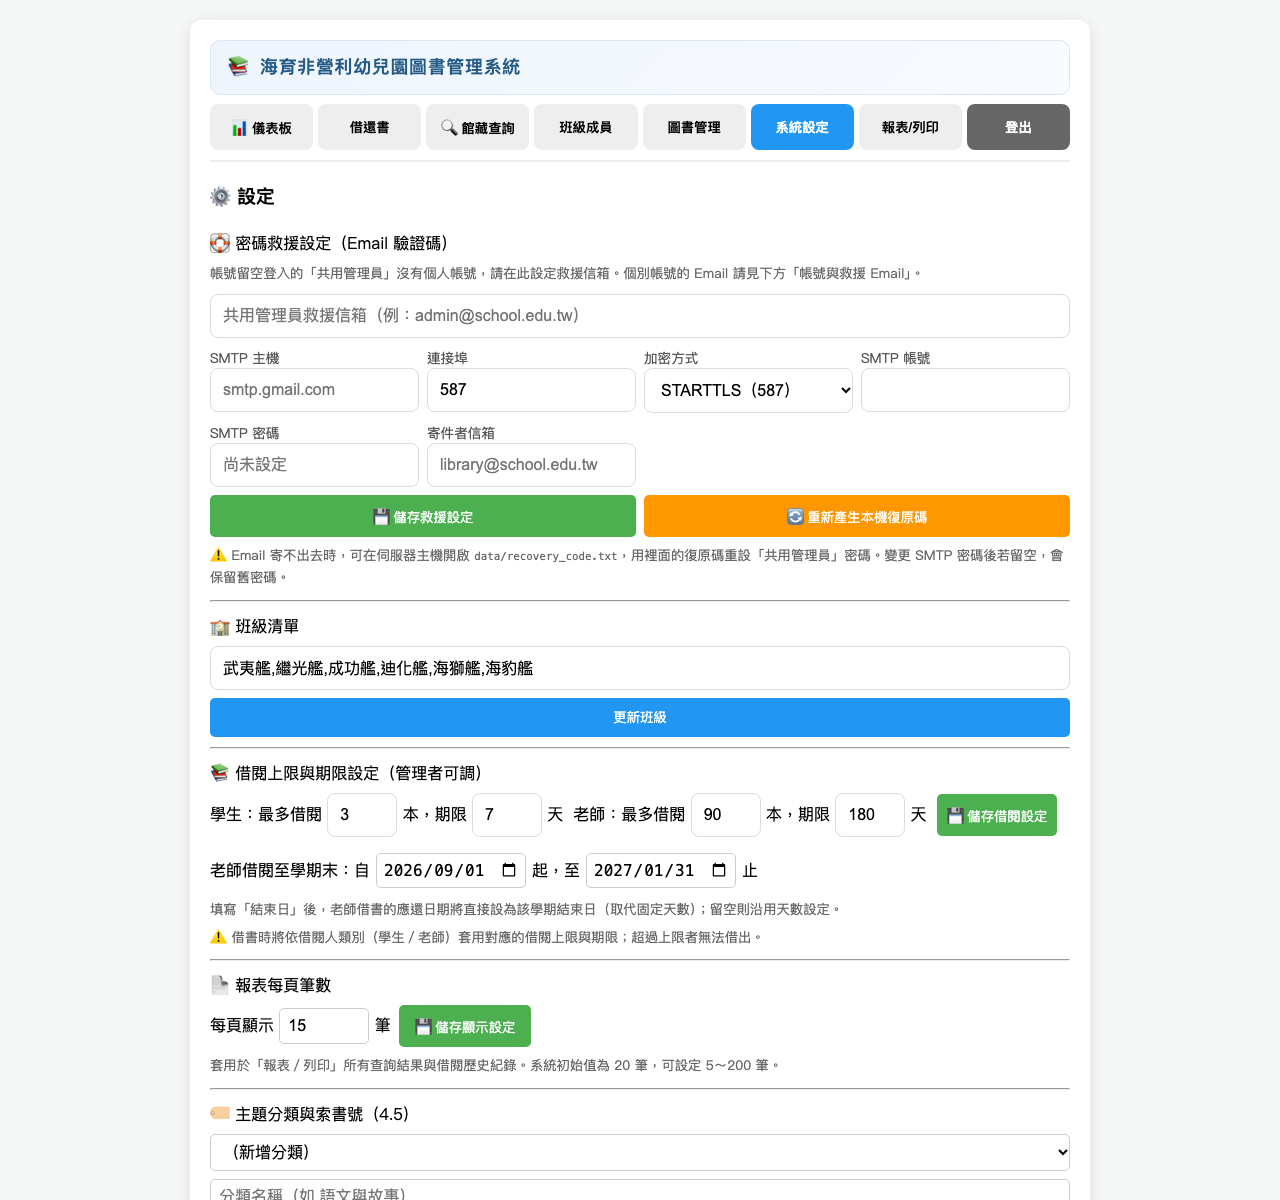
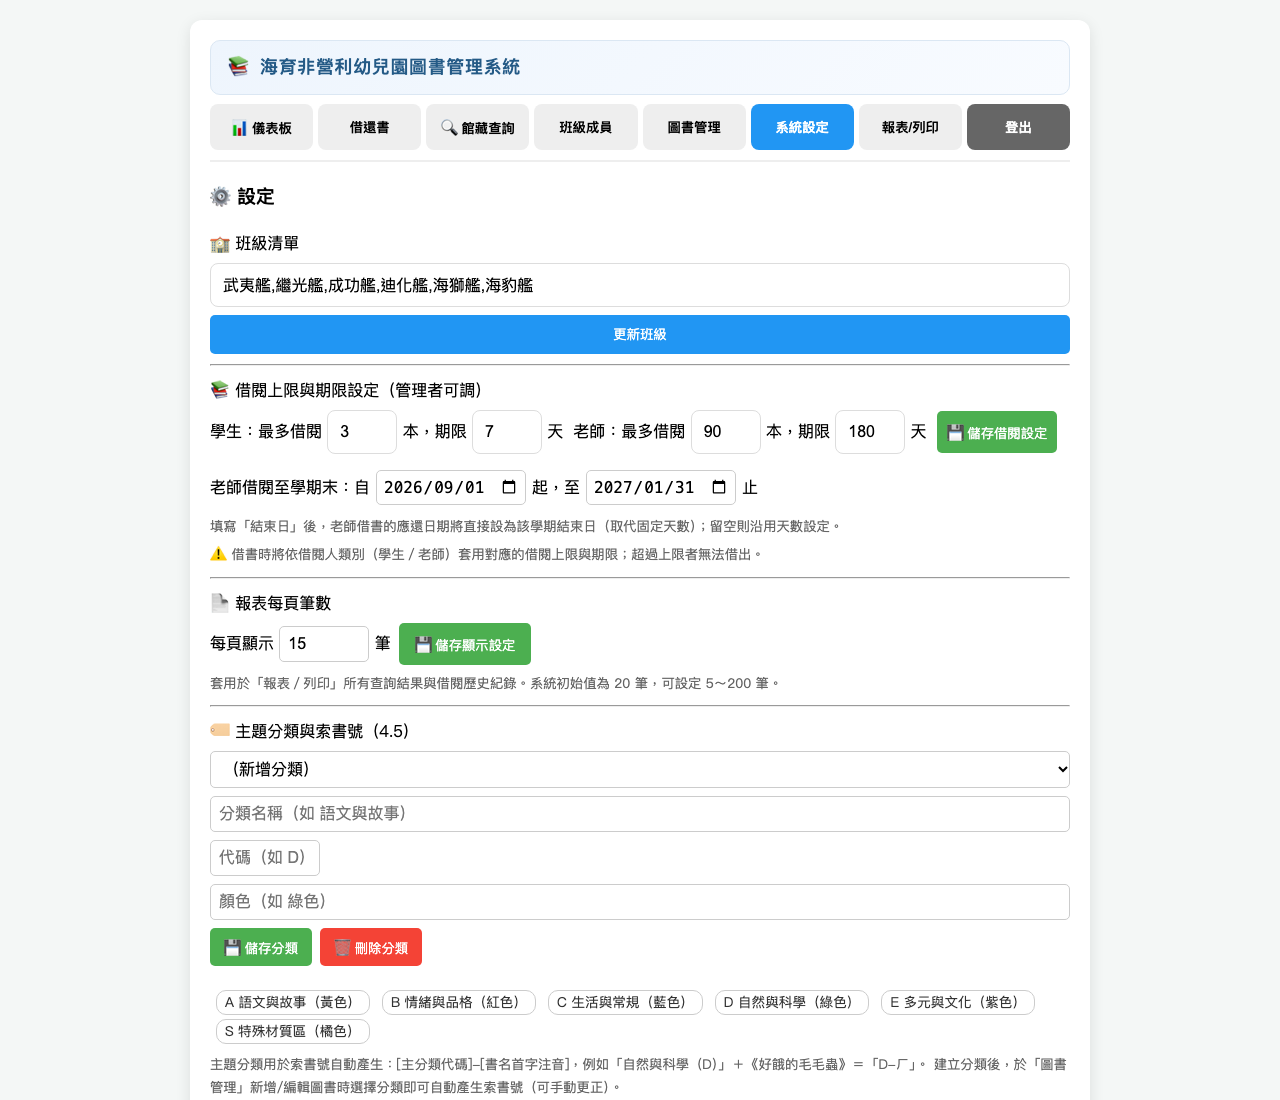
style: 密碼救援設定移至稽核紀錄前

diff --git a/index.html b/index.html
@@ -434,33 +434,6 @@
     <div id="configPage" class="page">
         <h3>⚙ 設定</h3>
         <div class="input-group">
-            <label>🛟 密碼救援設定（Email 驗證碼）</label>
-            <small style="color:#666; line-height:1.7;">帳號留空登入的「共用管理員」沒有個人帳號，請在此設定救援信箱。個別帳號的 Email 請見下方「帳號與救援 Email」。</small>
-            <input type="email" id="adminRecoveryEmail" placeholder="共用管理員救援信箱（例：admin@school.edu.tw）" autocomplete="off">
-            <div class="settings-grid">
-                <div><label>SMTP 主機</label><input type="text" id="smtpHost" placeholder="smtp.gmail.com" autocomplete="off"></div>
-                <div><label>連接埠</label><input type="number" id="smtpPort" value="587" min="1" max="65535"></div>
-                <div><label>加密方式</label>
-                    <select id="smtpSecurity">
-                        <option value="starttls">STARTTLS（587）</option>
-                        <option value="ssl">SSL（465）</option>
-                        <option value="none">不加密（僅內網）</option>
-                    </select>
-                </div>
-                <div><label>SMTP 帳號</label><input type="text" id="smtpUsername" autocomplete="off"></div>
-                <div><label>SMTP 密碼</label><input type="password" id="smtpPassword" placeholder="留空＝不變更" autocomplete="new-password"></div>
-                <div><label>寄件者信箱</label><input type="email" id="smtpFrom" placeholder="library@school.edu.tw" autocomplete="off"></div>
-            </div>
-            <div style="display:flex; gap:8px; flex-wrap:wrap;">
-                <button onclick="saveRecoverySettings()" style="flex:1; min-width:150px; background:var(--primary); color:white; padding:10px; border:none; border-radius:5px;">💾 儲存救援設定</button>
-                <button onclick="regenerateRecoveryCode()" style="flex:1; min-width:150px; background:var(--warning); color:white; padding:10px; border:none; border-radius:5px;">🔄 重新產生本機復原碼</button>
-            </div>
-            <small style="color:#666; line-height:1.7;">
-                ⚠ Email 寄不出去時，可在伺服器主機開啟 <code>data/recovery_code.txt</code>，用裡面的復原碼重設「共用管理員」密碼。變更 SMTP 密碼後若留空，會保留舊密碼。
-            </small>
-        </div>
-        <hr>
-        <div class="input-group">
             <label>🏫 班級清單</label>
             <input type="text" id="classListInput">
             <button onclick="updateClassList()" style="background:var(--secondary); color:white; padding:10px; border:none; border-radius:5px;">更新班級</button>
@@ -580,6 +553,33 @@
             <small style="color:#666; line-height:1.7;">
                 系統會於每日設定時間自動執行備份，備份檔儲存於指定目錄（可為 NAS／雲端磁碟掛載點，即實現「雲端備份」）。
                 僅保留最近 10 份備份，較舊者會自動刪除。
+            </small>
+        </div>
+        <hr>
+        <div class="input-group">
+            <label>🛟 密碼救援設定（Email 驗證碼）</label>
+            <small style="color:#666; line-height:1.7;">帳號留空登入的「共用管理員」沒有個人帳號，請在此設定救援信箱。個別帳號的 Email 請見下方「帳號與救援 Email」。</small>
+            <input type="email" id="adminRecoveryEmail" placeholder="共用管理員救援信箱（例：admin@school.edu.tw）" autocomplete="off">
+            <div class="settings-grid">
+                <div><label>SMTP 主機</label><input type="text" id="smtpHost" placeholder="smtp.gmail.com" autocomplete="off"></div>
+                <div><label>連接埠</label><input type="number" id="smtpPort" value="587" min="1" max="65535"></div>
+                <div><label>加密方式</label>
+                    <select id="smtpSecurity">
+                        <option value="starttls">STARTTLS（587）</option>
+                        <option value="ssl">SSL（465）</option>
+                        <option value="none">不加密（僅內網）</option>
+                    </select>
+                </div>
+                <div><label>SMTP 帳號</label><input type="text" id="smtpUsername" autocomplete="off"></div>
+                <div><label>SMTP 密碼</label><input type="password" id="smtpPassword" placeholder="留空＝不變更" autocomplete="new-password"></div>
+                <div><label>寄件者信箱</label><input type="email" id="smtpFrom" placeholder="library@school.edu.tw" autocomplete="off"></div>
+            </div>
+            <div style="display:flex; gap:8px; flex-wrap:wrap;">
+                <button onclick="saveRecoverySettings()" style="flex:1; min-width:150px; background:var(--primary); color:white; padding:10px; border:none; border-radius:5px;">💾 儲存救援設定</button>
+                <button onclick="regenerateRecoveryCode()" style="flex:1; min-width:150px; background:var(--warning); color:white; padding:10px; border:none; border-radius:5px;">🔄 重新產生本機復原碼</button>
+            </div>
+            <small style="color:#666; line-height:1.7;">
+                ⚠ Email 寄不出去時，可在伺服器主機開啟 <code>data/recovery_code.txt</code>，用裡面的復原碼重設「共用管理員」密碼。變更 SMTP 密碼後若留空，會保留舊密碼。
             </small>
         </div>
         <hr>

diff --git a/docs/操作手冊.html b/docs/操作手冊.html
@@ -264,8 +264,8 @@ alt="編輯帳號與功能權限" />
 <h2 id="借閱期限借閱數量上限與續借-1.2">借閱期限、借閱數量上限與續借
 (1.2)</h2>
 <figure>
-<img src="images/13-config.png" alt="系統設定：借閱上限、學期末起訖與密碼救援" />
-<figcaption aria-hidden="true">系統設定：借閱上限、學期末起訖與密碼救援</figcaption>
+<img src="images/13-config.png" alt="系統設定：班級清單、借閱上限、學期末起訖與報表每頁筆數" />
+<figcaption aria-hidden="true">系統設定：班級清單、借閱上限、學期末起訖與報表每頁筆數</figcaption>
 <p>「系統設定 → 系統更新」提供「🔍 檢查更新」與「⬇ 一鍵更新並重啟」：系統每日自動檢查 GitHub 是否有新版本，若有更新會在儀表板顯示通知橫幅，管理員可自行決定是否更新（更新會 git pull 並重啟伺服器，期間約 5～10 秒）。</p>
 </figure>
 <p>「系統設定 → 借閱規則」可調整：</p>

diff --git a/docs/修訂紀錄.md b/docs/修訂紀錄.md
@@ -559,3 +559,6 @@
 - 移除「系統設定」頁的「🔑 修改密碼」與「🔒 安全提問設定」兩個區塊，改由儀表板按鍵完全取代。
 - 儀表板的「🔑 修改密碼」對個別帳號與共用管理員皆可修改自己的密碼。
 - 「🔒 安全提問」modal 會顯示目前設定的問題並可直接更換；共用管理員沒有個人帳號，保存鍵停用並提示改用個人帳號設定。
+
+### 密碼救援設定移至稽核紀錄前（2026/11/16）
+- 「系統設定 → 🛟 密碼救援設定（Email 驗證碼）」由頁面最上方移至「🔍 稽核紀錄」正上方，方便與稽核紀錄一起維護設定。

diff --git a/docs/操作手冊.md b/docs/操作手冊.md
@@ -106,7 +106,7 @@ admin／root 角色與共用管理員不受勾選影響，一律全權限。
 
 ## 借閱期限、借閱數量上限與續借 (1.2)
 
-![系統設定：借閱上限、學期末起訖與密碼救援](images/13-config.png)
+![系統設定：班級清單、借閱上限、學期末起訖與報表每頁筆數](images/13-config.png)
 
 「系統設定 → 系統更新」提供「🔍 檢查更新」與「⬇ 一鍵更新並重啟」：系統每日自動檢查 GitHub 是否有新版本，若有更新會在儀表板顯示通知橫幅，管理員可自行決定是否更新（更新會 git pull 並重啟伺服器，期間約 5～10 秒）。
 
